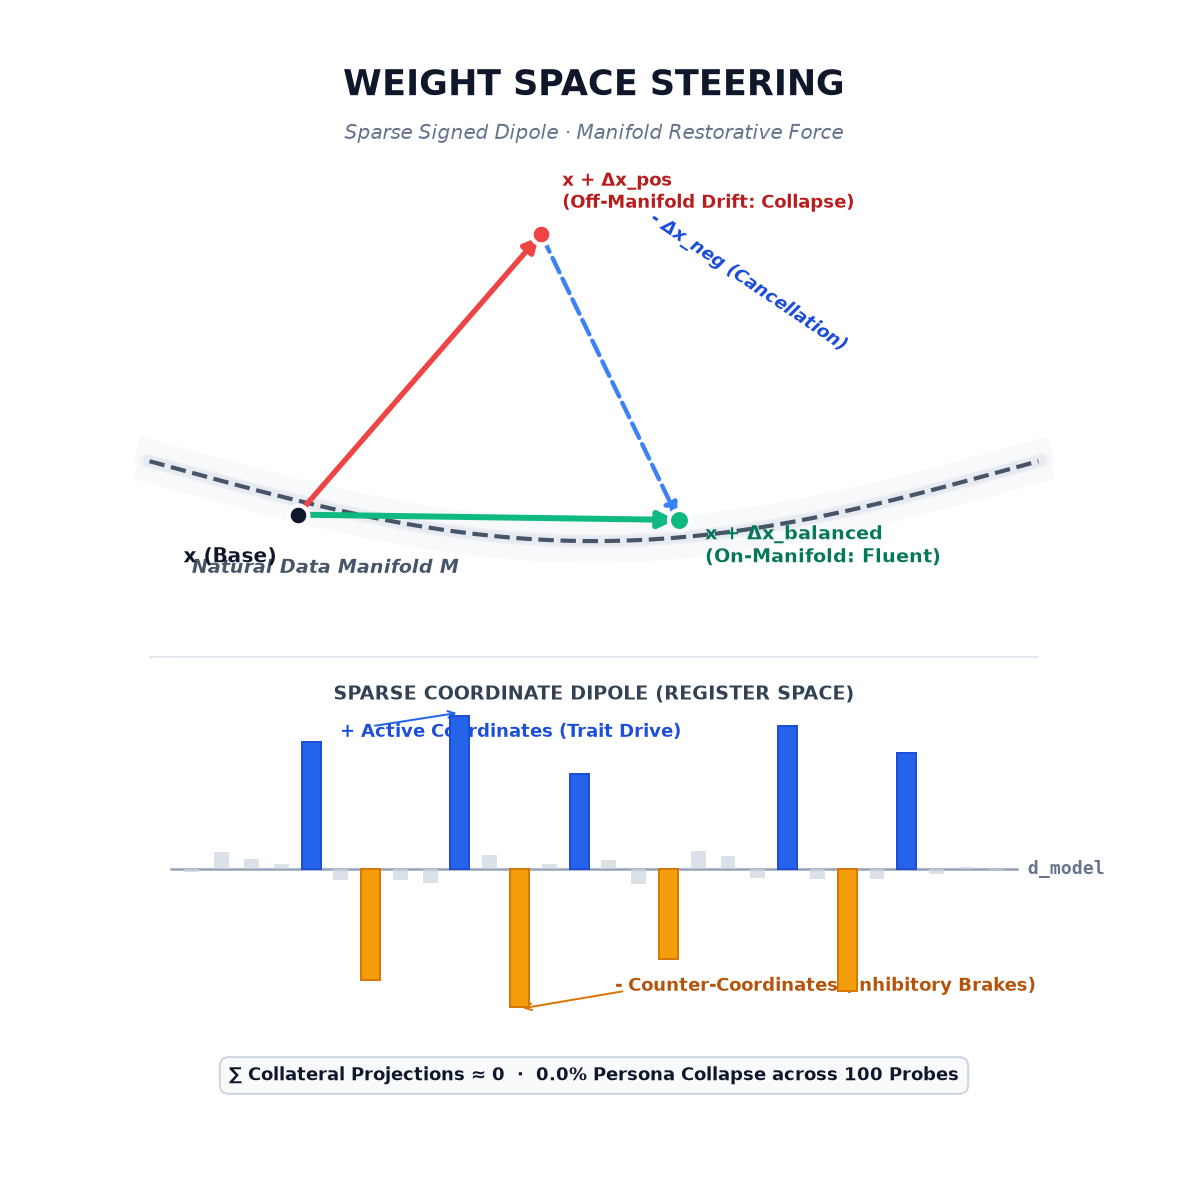
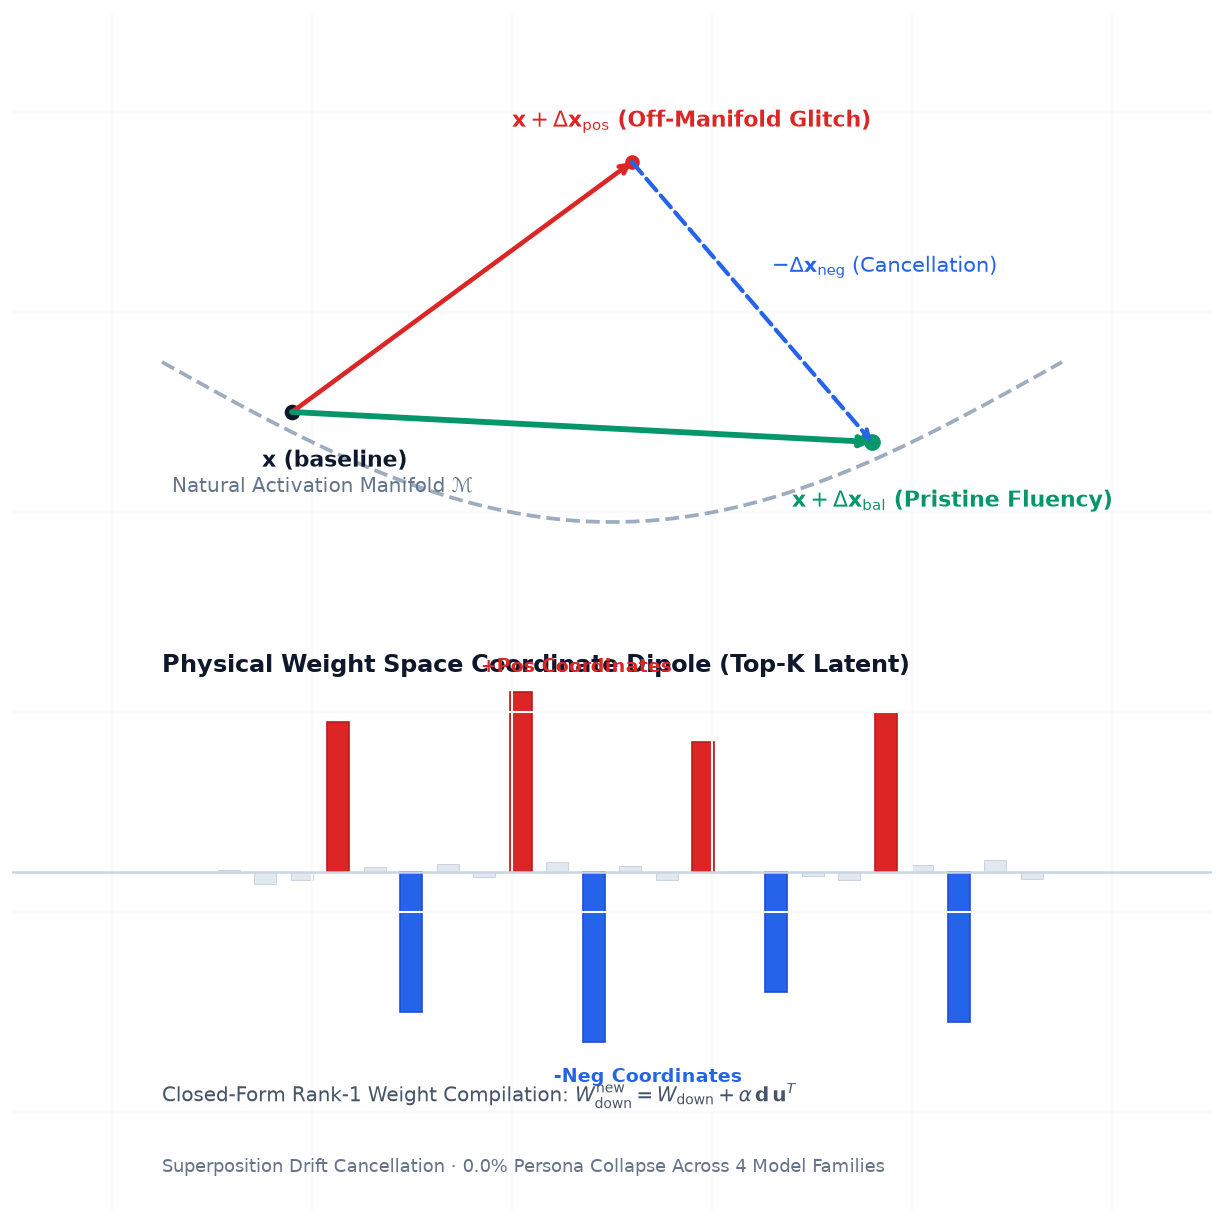
feat: move weight space above diffusion and render crisp white thumbnails

diff --git a/index.html b/index.html
@@ -1022,14 +1022,14 @@
       <span class="content">
         <div class="pub-with-thumb">
           <div class="pub-thumb">
-            <img src="diffusion_physics.png" alt="Why Diffusion Models Fail at Physics thumbnail" onerror="this.style.display='none'; this.parentElement.textContent='📄';" />
+            <img src="weight_space.png" alt="Ghost in the Residual Stream system diagram" onerror="this.style.display='none'; this.parentElement.textContent='📄';" />
           </div>
           <div class="pub-body">
-            <span class="entry-title">Why Diffusion Models Fail at Physics: Autoregressive Collapse, Displacement Inflation, and the Probing Illusion</span><span class="entry-meta">Research Article · Nov 2026</span>
-            <div class="entry-desc">An empirical assessment of conditional diffusion surrogates trained on pseudo-Newtonian Barnes-Hut multi-body dynamics. Isolates step displacement norm inflation (8.2×) as the driver of rollout explosion, proves why deterministic DDIM stabilizes rollouts via trajectory shrinkage, and demonstrates why linear invariant probing fails on held-out trajectories even from exact ground-truth coordinates.</div>
+            <span class="entry-title">Ghost in the Residual Stream: Why Modulating LLM Neurons in Reverse Keeps Them Sane</span><span class="entry-meta">Research Blog · Feb 2026</span>
+            <div class="entry-desc">An empirical study on coordinate signs versus magnitude in physical weight-space steering across Qwen 2.5, SmolLM2, and Gemma 2. Shows how negative coordinates cancel collateral activation drift in superposition and eliminate persona collapse.</div>
             <div class="entry-refs">
-              <a href="diffusion_physics.html"><i class="fa-solid fa-file-lines"></i> read research article</a>
-              <a href="https://github.com/sirohikartik/Barnes-Hut" target="_blank"><i class="fa-brands fa-github"></i> github repository</a>
+              <a href="weight_space.html"><i class="fa-solid fa-file-lines"></i> read research article</a>
+              <a href="https://github.com/sirohikartik/weight_space" target="_blank"><i class="fa-brands fa-github"></i> github repository</a>
             </div>
           </div>
         </div>
@@ -1039,14 +1039,14 @@
       <span class="content">
         <div class="pub-with-thumb">
           <div class="pub-thumb">
-            <img src="weight_space.png" alt="Ghost in the Residual Stream system diagram" onerror="this.style.display='none'; this.parentElement.textContent='📄';" />
+            <img src="diffusion_physics.png" alt="Why Diffusion Models Fail at Physics thumbnail" onerror="this.style.display='none'; this.parentElement.textContent='📄';" />
           </div>
           <div class="pub-body">
-            <span class="entry-title">Ghost in the Residual Stream: Why Modulating LLM Neurons in Reverse Keeps Them Sane</span><span class="entry-meta">Research Blog · Feb 2026</span>
-            <div class="entry-desc">An empirical study on coordinate signs versus magnitude in physical weight-space steering across Qwen 2.5, SmolLM2, and Gemma 2. Shows how negative coordinates cancel collateral activation drift in superposition and eliminate persona collapse.</div>
+            <span class="entry-title">Why Diffusion Models Fail at Physics: Autoregressive Collapse, Displacement Inflation, and the Probing Illusion</span><span class="entry-meta">Research Article · Nov 2026</span>
+            <div class="entry-desc">An empirical assessment of conditional diffusion surrogates trained on pseudo-Newtonian Barnes-Hut multi-body dynamics. Isolates step displacement norm inflation (8.2×) as the driver of rollout explosion, proves why deterministic DDIM stabilizes rollouts via trajectory shrinkage, and demonstrates why linear invariant probing fails on held-out trajectories even from exact ground-truth coordinates.</div>
             <div class="entry-refs">
-              <a href="weight_space.html"><i class="fa-solid fa-file-lines"></i> read research article</a>
-              <a href="https://github.com/sirohikartik/weight_space" target="_blank"><i class="fa-brands fa-github"></i> github repository</a>
+              <a href="diffusion_physics.html"><i class="fa-solid fa-file-lines"></i> read research article</a>
+              <a href="https://github.com/sirohikartik/Barnes-Hut" target="_blank"><i class="fa-brands fa-github"></i> github repository</a>
             </div>
           </div>
         </div>
@@ -1528,10 +1528,10 @@ Papers accepted at IEEE Access and Comsys 2026
     <div class="logline">
       <span class="content">
         <div class="post-with-thumb">
-          <div class="post-thumb"><img src="diffusion_physics.png" alt="Why Diffusion Models Fail at Physics" style="width:100%;height:100%;object-fit:cover;border-radius:3px;" /></div>
+          <div class="post-thumb"><img src="weight_space.png" alt="Ghost in the Residual Stream" style="width:100%;height:100%;object-fit:cover;border-radius:3px;" /></div>
           <div class="post-body">
-            <a class="entry-title" href="diffusion_physics.html">Why Diffusion Models Fail at Physics: Autoregressive Collapse and the Probing Illusion</a><span class="entry-meta">Nov 2026 · Research</span>
-            <div class="entry-desc">Empirical autopsy of conditional diffusion on relativistic N-body systems. Step displacement inflation, baseline reality checks, and why diagnostic probes fail.</div>
+            <a class="entry-title" href="weight_space.html">Ghost in the Residual Stream: Why Modulating LLM Neurons in Reverse Keeps Them Sane</a><span class="entry-meta">Feb 2026 · Research</span>
+            <div class="entry-desc">Why coordinate signs matter far more than magnitude in language model steering across Qwen 2.5, SmolLM2, and Gemma 2.</div>
           </div>
         </div>
       </span>
@@ -1540,10 +1540,10 @@ Papers accepted at IEEE Access and Comsys 2026
     <div class="logline">
       <span class="content">
         <div class="post-with-thumb">
-          <div class="post-thumb" data-thumb="weightspace"><canvas width="160" height="160"></canvas></div>
+          <div class="post-thumb"><img src="diffusion_physics.png" alt="Why Diffusion Models Fail at Physics" style="width:100%;height:100%;object-fit:cover;border-radius:3px;" /></div>
           <div class="post-body">
-            <a class="entry-title" href="weight_space.html">Ghost in the Residual Stream: Why Modulating LLM Neurons in Reverse Keeps Them Sane</a><span class="entry-meta">Feb 2026 · Research</span>
-            <div class="entry-desc">Why coordinate signs matter far more than magnitude in language model steering across Qwen 2.5, SmolLM2, and Gemma 2.</div>
+            <a class="entry-title" href="diffusion_physics.html">Why Diffusion Models Fail at Physics: Autoregressive Collapse and the Probing Illusion</a><span class="entry-meta">Nov 2026 · Research</span>
+            <div class="entry-desc">Empirical autopsy of conditional diffusion on relativistic N-body systems. Step displacement inflation, baseline reality checks, and why diagnostic probes fail.</div>
           </div>
         </div>
       </span>
